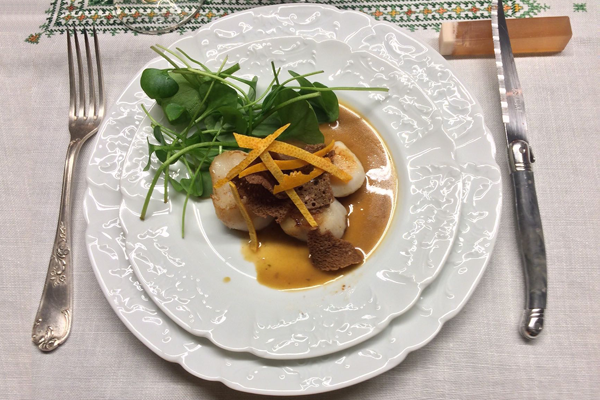
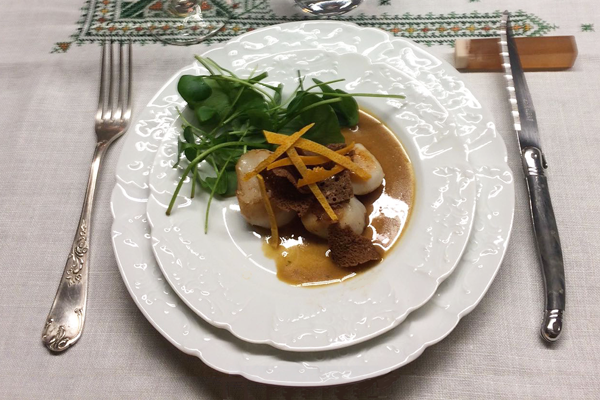
ajout de photos HD
idem

diff --git a/_posts/2018-05-30-tagine-coing.md b/_posts/2018-05-30-tagine-coing.md
@@ -3,7 +3,7 @@ layout: post
 title: Tagine d’agneau aux coings
 tag_category: maroc
 tag_plat: platViande
-image: img/recette/tagineauxcoings.png
+image: img/recette/tagine-coing.png
 temps_preparation: 30
 temps_cuisson: 60
 temps_repos: ‘-‘
@@ -50,4 +50,4 @@ La saison des coings, c’est l’automne. Traditionnellement, à Agadir, on man
 * Typiquement, ce plat marocain devrait être accompagné d'une boisson non alcoolisée (eau plate ou eau gazeuse : Sidi Harazem, Sidi Ali ou Oulmès).
 * Traditionnellement, le tagine se mange avec du kesra (pain plat marocain) et avec les doigts!… mais comme on se permet de l'accompagner de vin, on peut prendre des couverts.
 * Le colorant alimentaire utilisé dans la cuisine marocaine est de la tartrazine (E102). Il est autorisé en France mais on peut s'en passer pour une cuisine plus "bio". On peut le remplacer par du curcuma.
-* les coings à la cannelle préparés pour cette recette de tagine peuvent aussi être dégustés tels quels ou utilisés pour la réalisation de divers desserts et entremets. 
+* les coings à la cannelle préparés pour cette recette de tagine peuvent aussi être dégustés tels quels ou utilisés pour la réalisation de divers desserts et entremets.

diff --git a/_posts/2020-07-09-sauce-gribiche.md b/_posts/2020-07-09-sauce-gribiche.md
@@ -3,7 +3,7 @@ layout: post
 title: Sauce gribiche
 tag_category: famille
 tag_plat: sauce
-image: img/recette/gribiche.png
+image: img/recette/sauce-gribiche.png
 temps_preparation: 10
 temps_cuisson: '-'
 temps_repos: '-'
